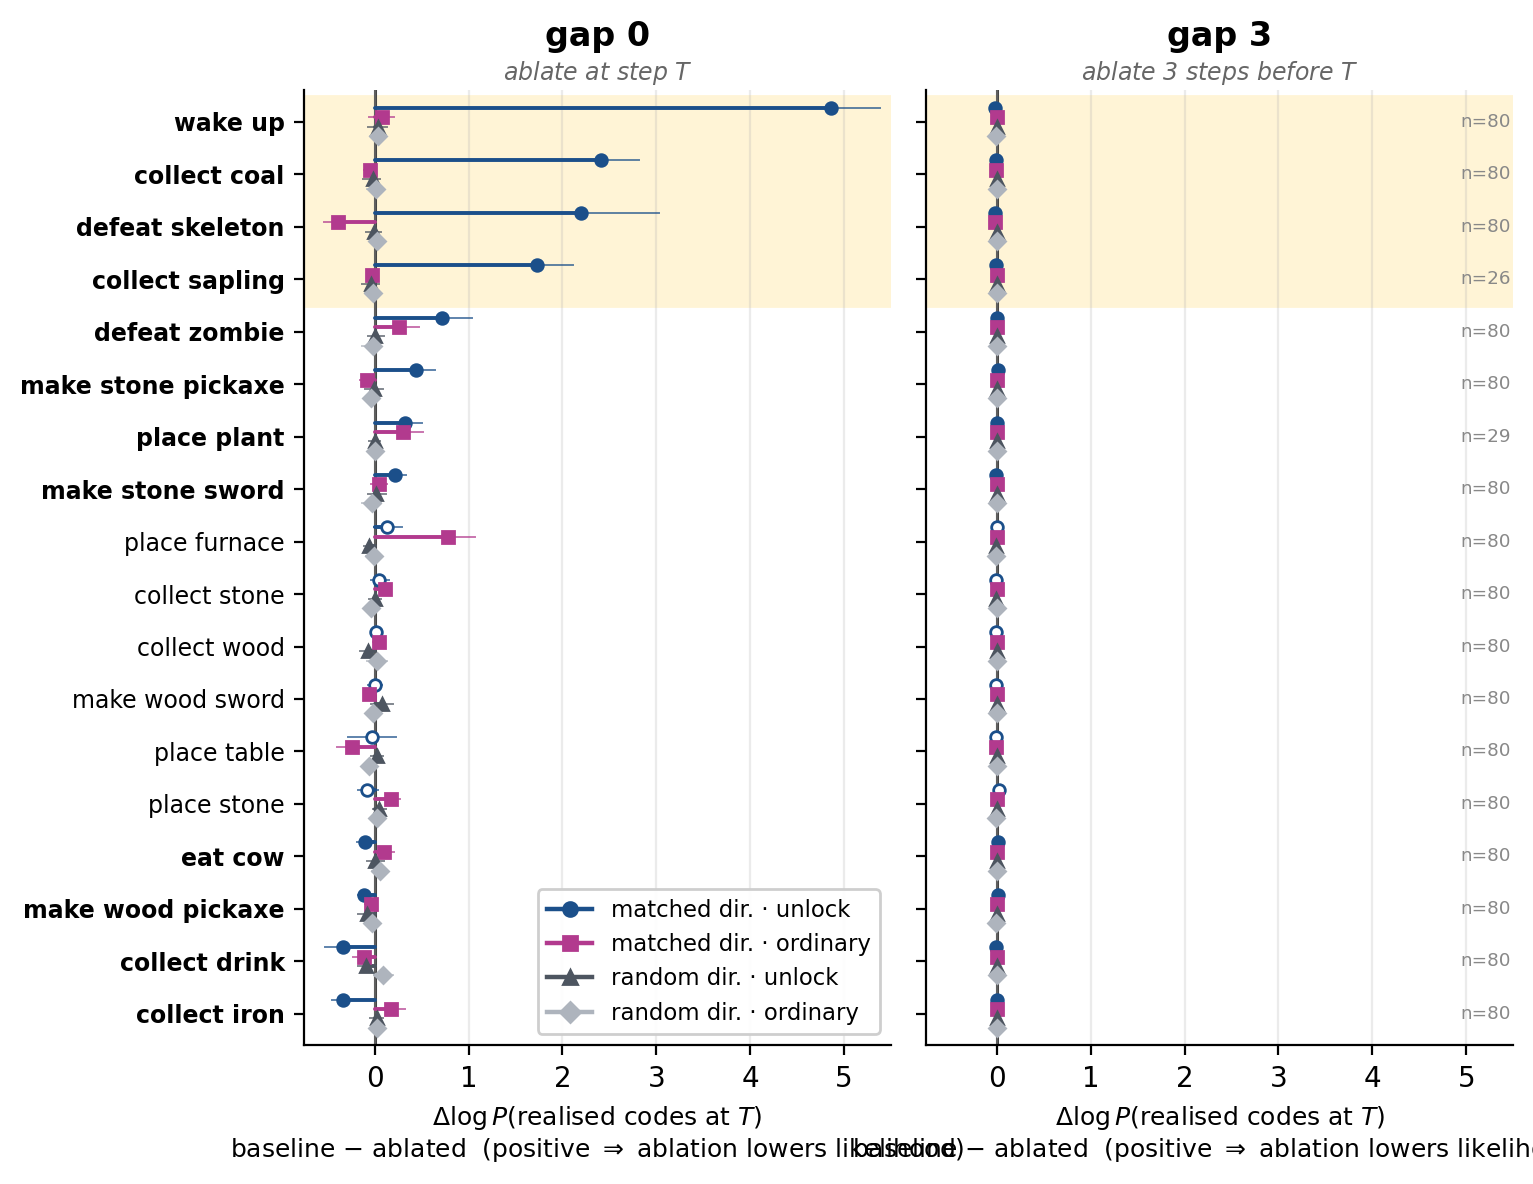
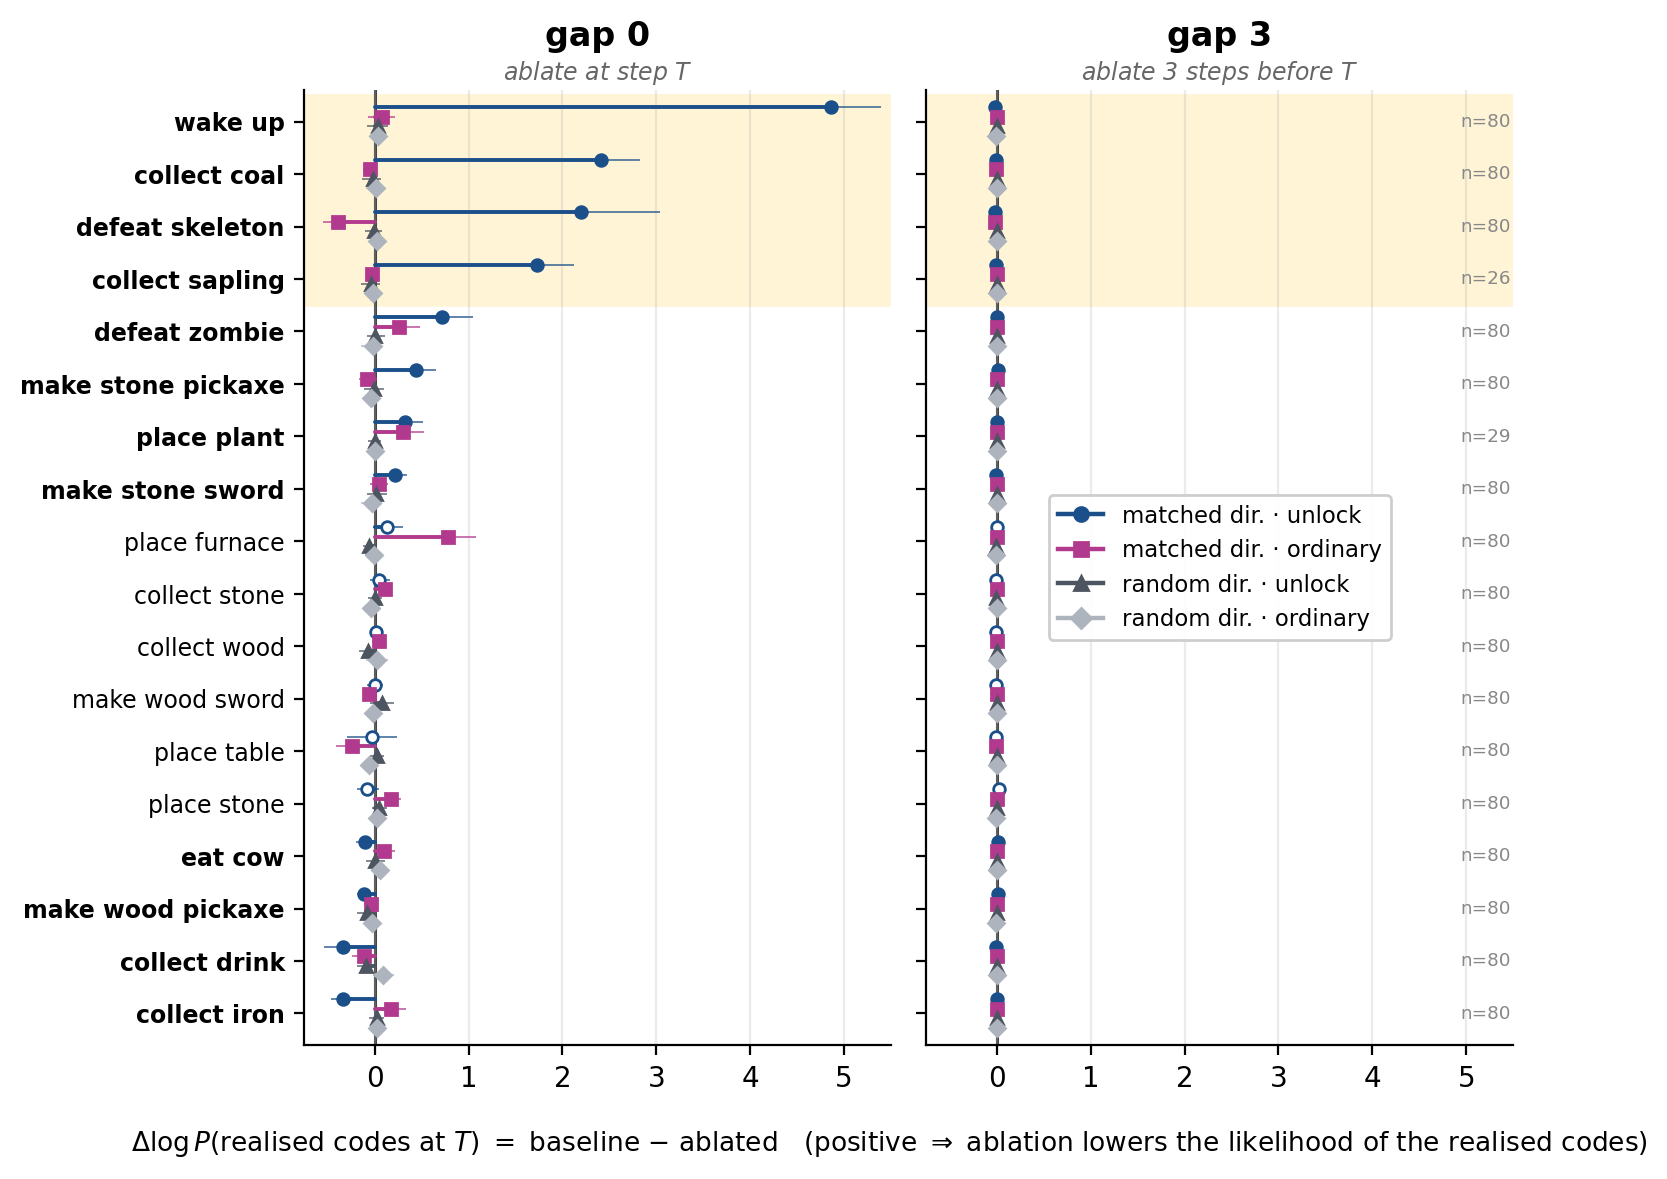
Fig.5: single shared x-label (was duplicated/truncated), legend to gap-3 panel
The per-panel two-line x-axis label collided in the middle and ran off the
right edge. Replace with one centered shared label below both panels, and
move the legend into the empty interior of the gap-3 panel.

diff --git a/paper/make_ablation_fig.py b/paper/make_ablation_fig.py
@@ -82,8 +82,6 @@ for ax, (G, tag, sub) in zip(axes, [(G0, "gap 0", "ablate at step $T$"),
     ax.set_title(tag, fontsize=12, fontweight="bold", pad=16)
     ax.text(0.5, 1.004, sub, transform=ax.transAxes, ha="center", va="bottom",
             fontsize=8.5, style="italic", color="#666")
-    ax.set_xlabel("$\\Delta\\log P$(realised codes at $T$)\nbaseline $-$ ablated  (positive $\\Rightarrow$ ablation lowers likelihood)",
-                  fontsize=9)
     ax.grid(axis="x", alpha=0.25)
     for s in ("top", "right"):
         ax.spines[s].set_visible(False)
@@ -101,13 +99,18 @@ for ci, c in enumerate(concepts):
     axes[1].text(xhi * 0.995, ci, f"n={n}", ha="right", va="center", fontsize=6.6,
                  color="#888")
 
-# legend (shared, above)
+# legend placed in the empty interior of the gap-3 panel (everything there sits at ~0)
 handles = [Line2D([0], [0], color=col, marker=mk, ms=5, lw=1.6, label=lab)
            for (mt, cond, lab, col, mk) in CONDS]
-axes[0].legend(handles=handles, loc="lower right", fontsize=8.2, frameon=True,
+axes[1].legend(handles=handles, loc="center", fontsize=8.2, frameon=True,
                framealpha=0.95)
 
-fig.tight_layout()
+# single shared x-axis label (the per-panel labels collided/truncated)
+fig.tight_layout(rect=[0, 0.055, 1, 1])
+fig.text(0.5, 0.018,
+         "$\\Delta\\log P$(realised codes at $T$) $=$ baseline $-$ ablated   "
+         "(positive $\\Rightarrow$ ablation lowers the likelihood of the realised codes)",
+         ha="center", va="bottom", fontsize=9.5)
 fig.savefig(OUT / "ablation_onestep.pdf", facecolor="white", bbox_inches="tight")
 fig.savefig(OUT / "ablation_onestep.png", dpi=200, facecolor="white", bbox_inches="tight")
 print("wrote", OUT / "ablation_onestep.pdf")